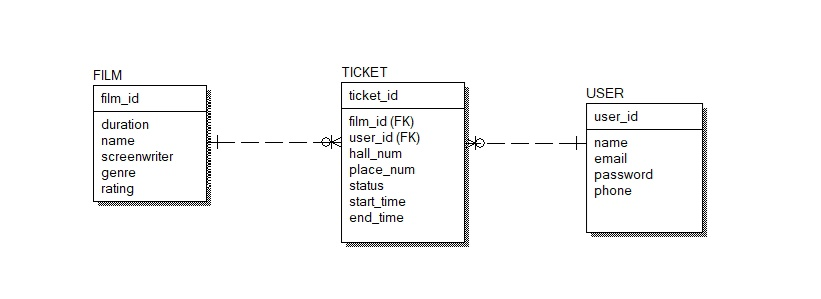
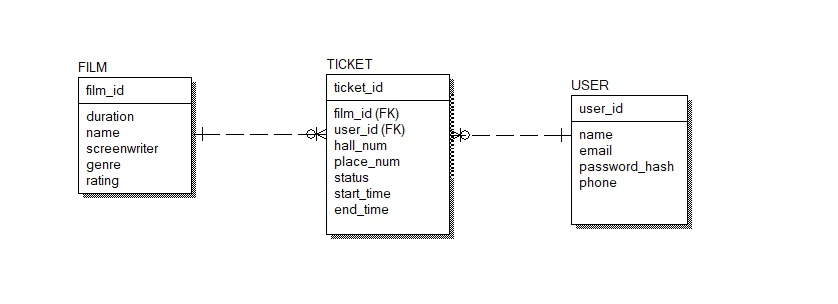
kireev lab7 entities

Changed region(s): [[0.0914, 0.1806, 0.8831, 0.8428]]

diff --git a/app/G91/kireev.dmitrii/lab7/src/main/java/ru/vsu/amm/java/Entity/UserEntity.java b/app/G91/kireev.dmitrii/lab7/src/main/java/ru/vsu/amm/java/Entity/UserEntity.java
@@ -8,14 +8,14 @@ public class UserEntity {
     private long userId;
     private String name;
     private String email;
-    private String password;
+    private String passwordHash;
     private String phone;
 
 
-    public UserEntity (String name, String email, String password, String phone) {
+    public UserEntity (String name, String email, String passwordHash, String phone) {
     this.name = name;
     this.email = email;
-    this.password = password;
+    this.passwordHash = passwordHash;
     this.phone = phone;
     }
 }
